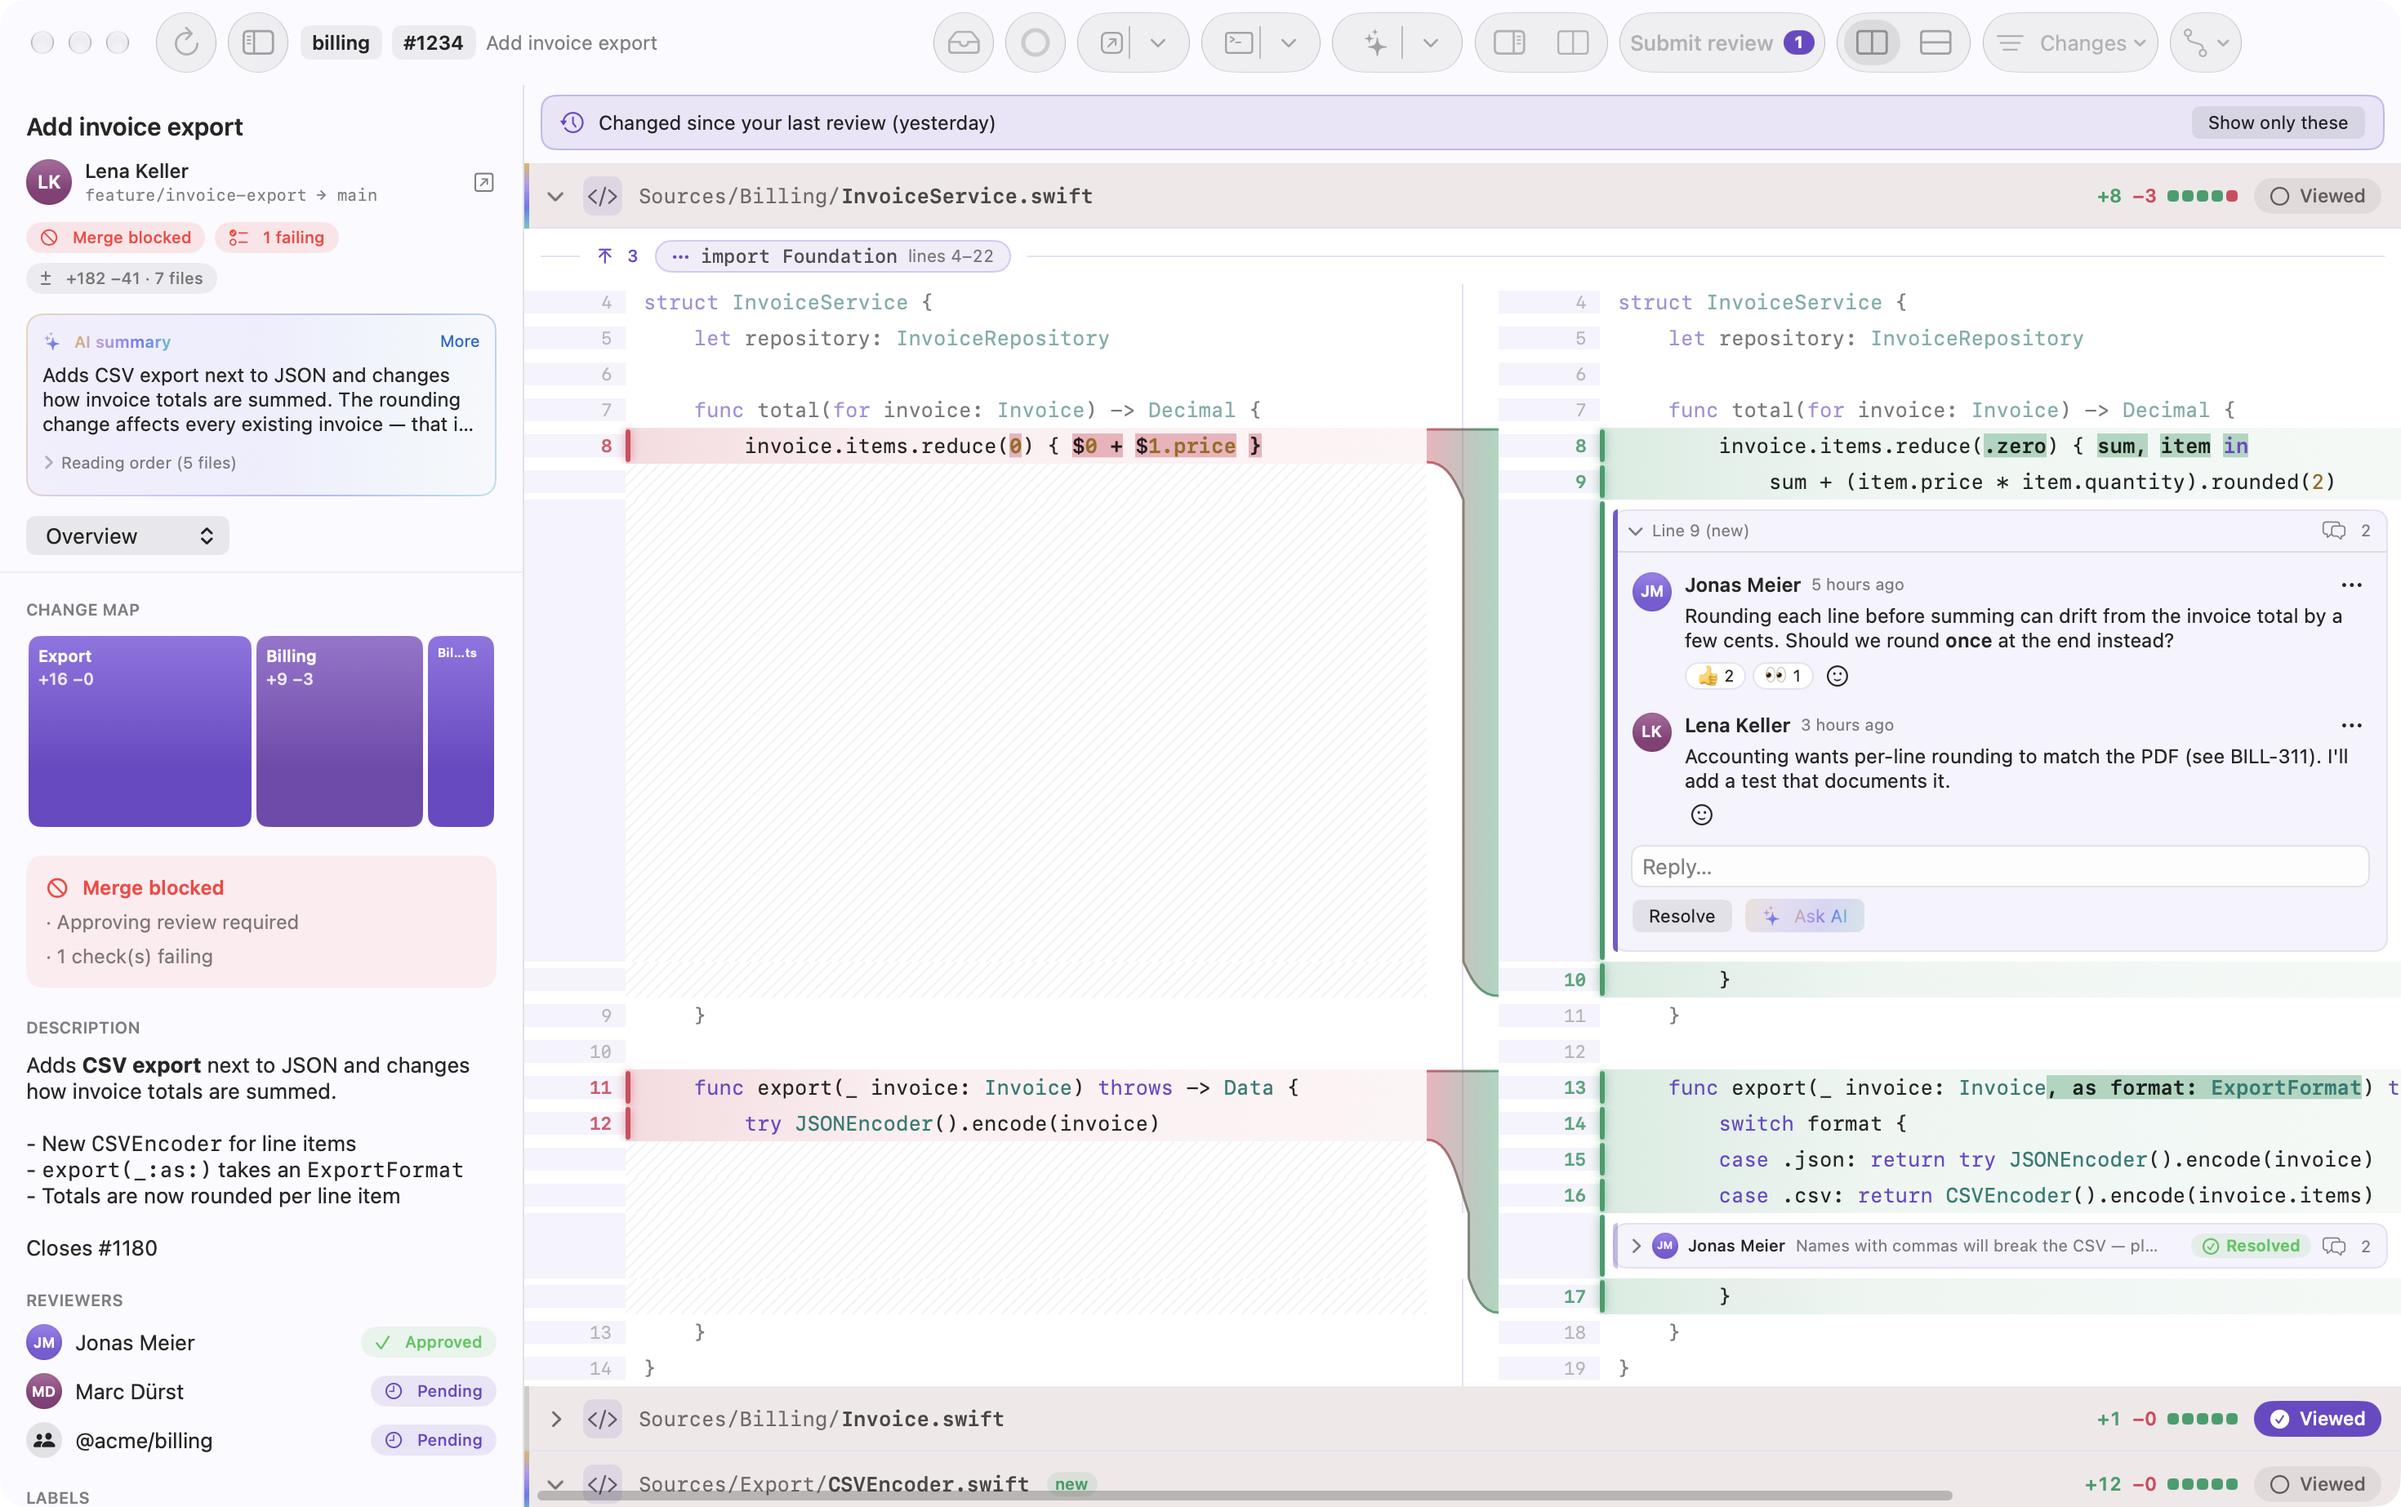
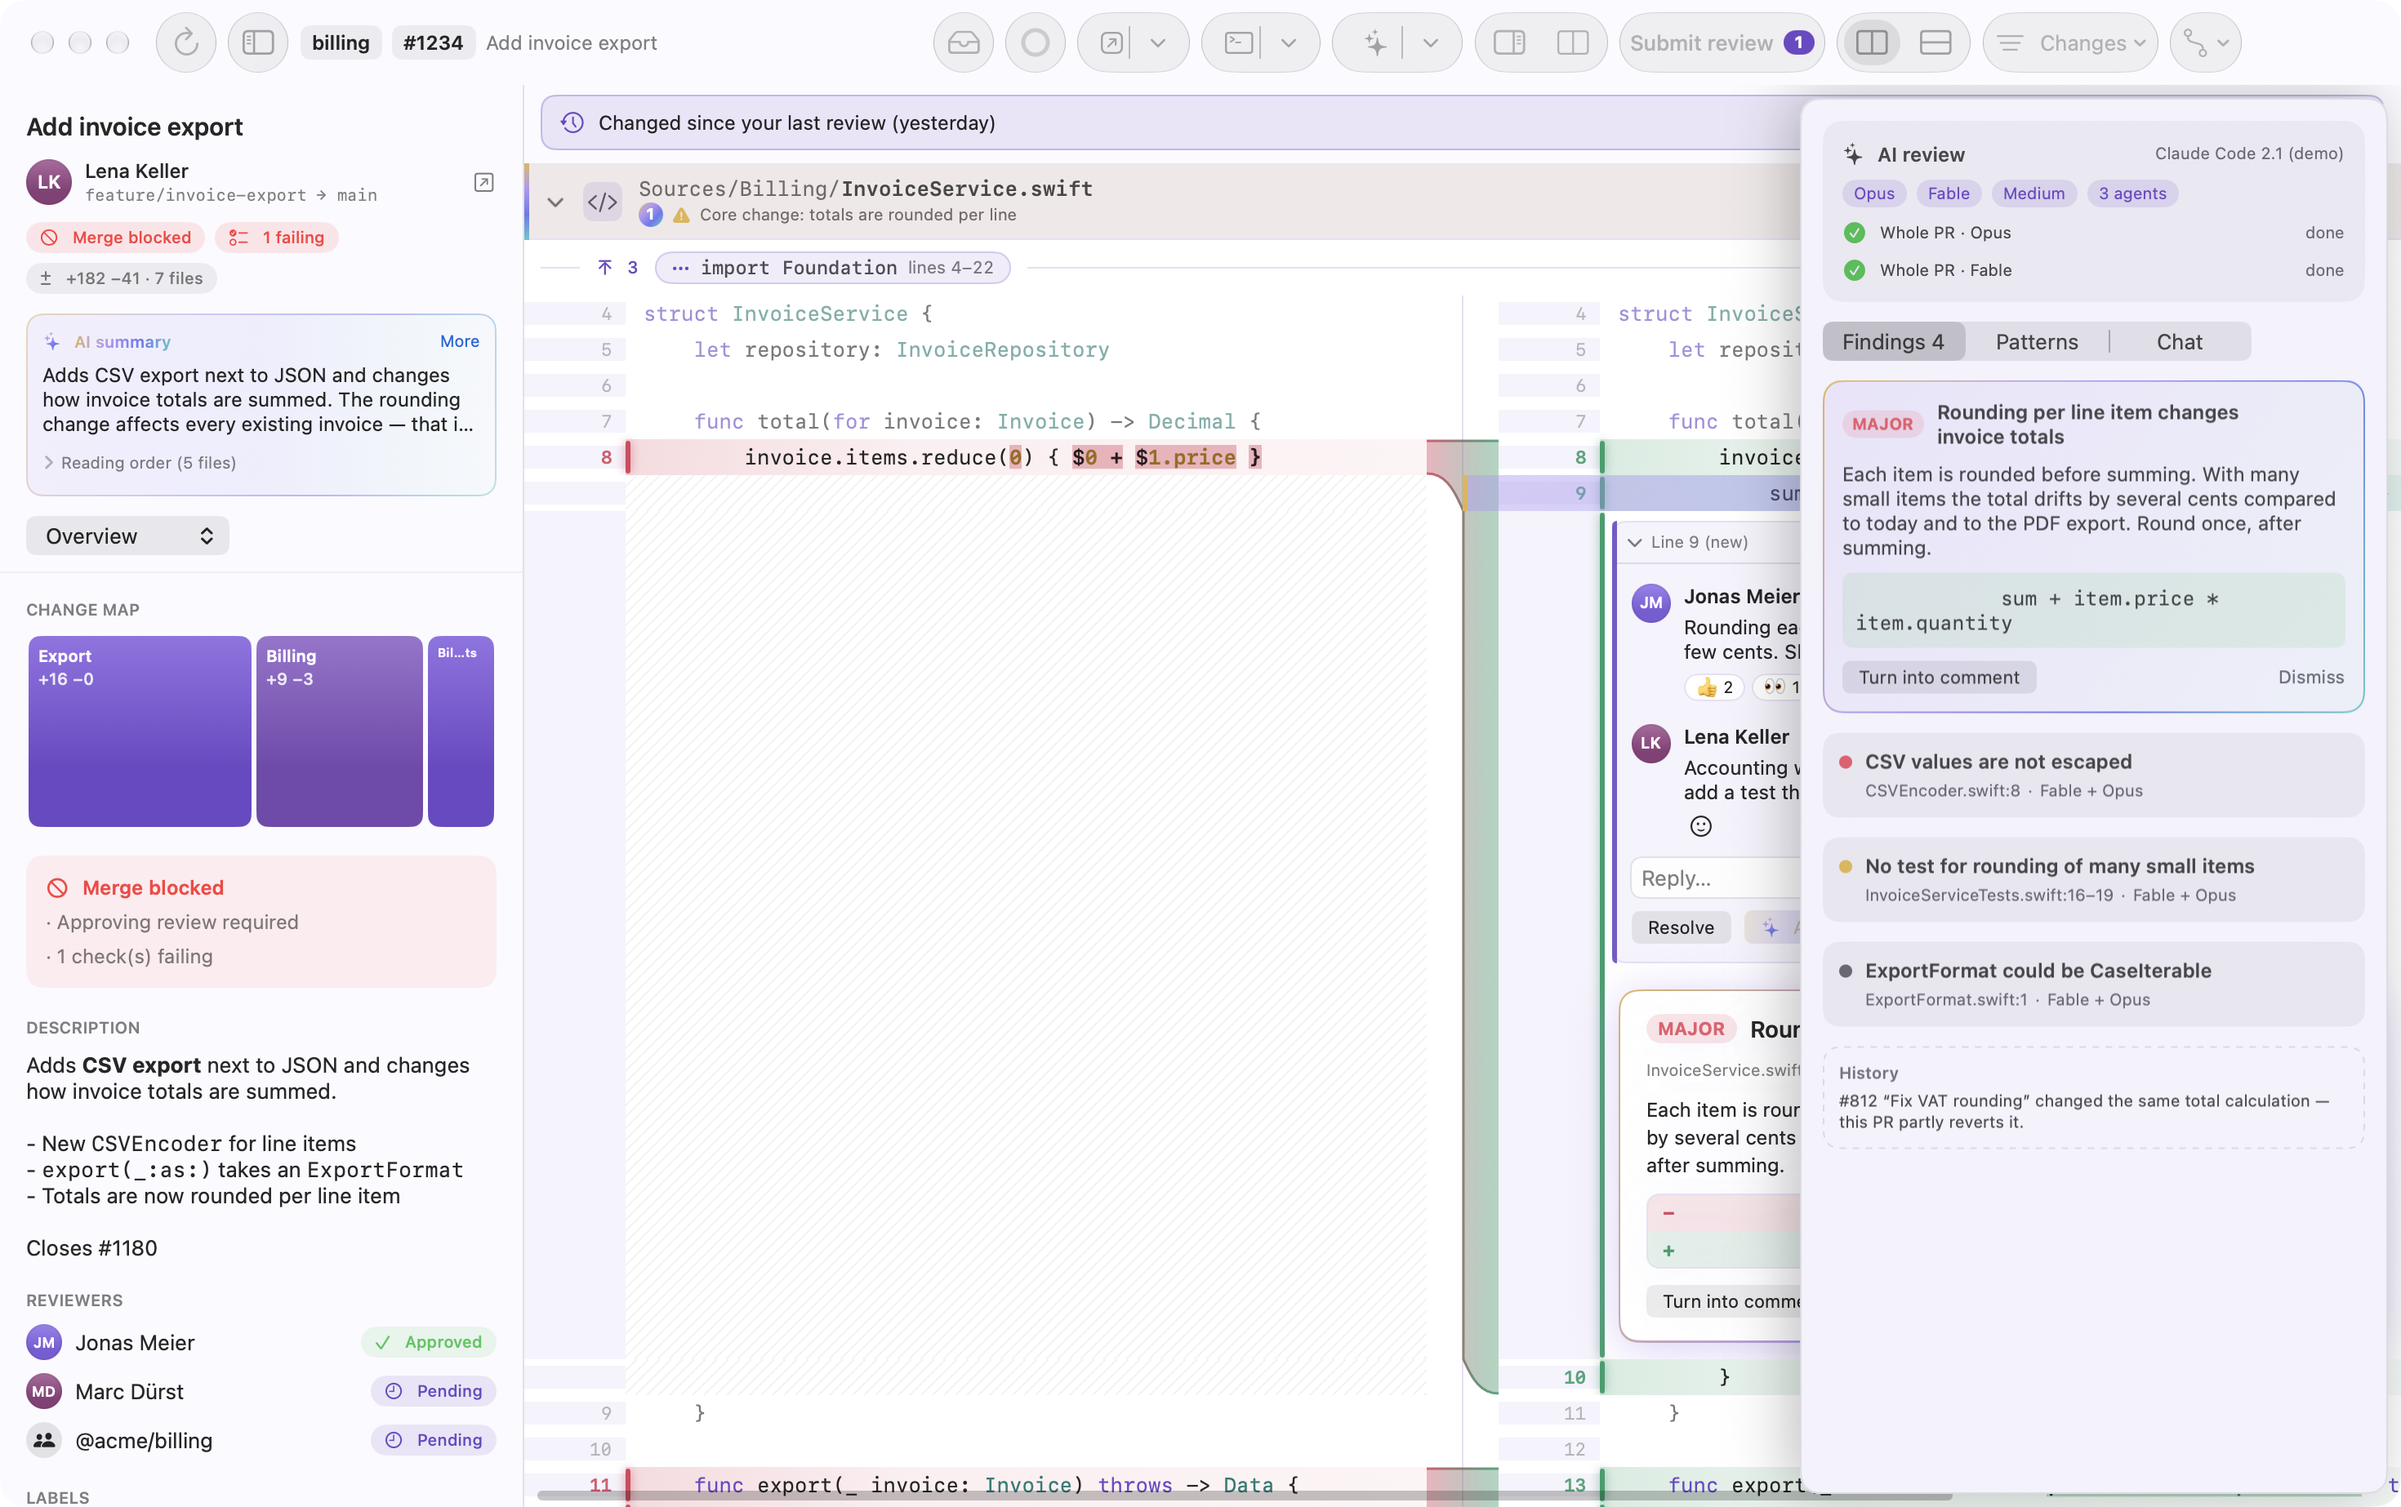
README: screenshots in light and dark mode
Each README screenshot now has a -dark.png twin, picked by the reader's
theme via <picture>. Retakes the light compact screenshot with the
floating inspector visible.

diff --git a/README.md b/README.md
@@ -11,7 +11,7 @@ Sylvra is a native macOS app for reviewing **your team's GitHub pull requests**,
 Sylvra is **not a Git client** and not a code generator. It helps you understand a change, find what matters and write clear, factual review comments. You stay the reviewer.
 
 <p align="center">
-  <img src="docs/screenshots/app-30-overview.png" alt="Sylvra: inbox with filters and repositories, pull request with AI summary and change map, diff with a review thread and an inline AI finding, AI inspector" width="100%">
+  <picture><source media="(prefers-color-scheme: dark)" srcset="docs/screenshots/app-30-overview-dark.png"><img src="docs/screenshots/app-30-overview.png" alt="Sylvra: inbox with filters and repositories, pull request with AI summary and change map, diff with a review thread and an inline AI finding, AI inspector" width="100%"></picture>
 </p>
 
 *The name is a coined word from Latin* silva */ English* sylvan *— forest, wooded.*
@@ -66,16 +66,16 @@ Sylvra is **not a Git client** and not a code generator. It helps you understand
 - **Window layouts** (`⌃⌘0`–`⌃⌘4`): *Automatic*, *Wide* (all columns), *Compact* for laptops (inbox and AI float in on demand), *Focus* (only the diff), *Two windows* for two screens.
 
 <p align="center">
-  <img src="docs/screenshots/app-26-repository-browser.png" alt="All open pull requests of a repository, grouped and filtered" width="49%">
-  <img src="docs/screenshots/app-31-commit-by-commit.png" alt="Reviewing commit 2 of 4 on its own" width="49%">
+  <picture><source media="(prefers-color-scheme: dark)" srcset="docs/screenshots/app-26-repository-browser-dark.png"><img src="docs/screenshots/app-26-repository-browser.png" alt="All open pull requests of a repository, grouped and filtered" width="49%"></picture>
+  <picture><source media="(prefers-color-scheme: dark)" srcset="docs/screenshots/app-31-commit-by-commit-dark.png"><img src="docs/screenshots/app-31-commit-by-commit.png" alt="Reviewing commit 2 of 4 on its own" width="49%"></picture>
 </p>
 <p align="center">
-  <img src="docs/screenshots/app-33-ai-chat.png" alt="AI chat with a formatted answer and clickable code references" width="49%">
-  <img src="docs/screenshots/app-34-compact.png" alt="Compact layout for laptops: pull request and a wide diff" width="49%">
+  <picture><source media="(prefers-color-scheme: dark)" srcset="docs/screenshots/app-33-ai-chat-dark.png"><img src="docs/screenshots/app-33-ai-chat.png" alt="AI chat with a formatted answer and clickable code references" width="49%"></picture>
+  <picture><source media="(prefers-color-scheme: dark)" srcset="docs/screenshots/app-34-compact-dark.png"><img src="docs/screenshots/app-34-compact.png" alt="Compact layout for laptops: pull request and a wide diff" width="49%"></picture>
 </p>
 <p align="center">
-  <img src="docs/screenshots/app-32-check-report.png" alt="What a failing check reported, with annotations" width="49%">
-  <img src="docs/screenshots/app-21-tone-check.png" alt="Comment composer with tone check" width="49%">
+  <picture><source media="(prefers-color-scheme: dark)" srcset="docs/screenshots/app-32-check-report-dark.png"><img src="docs/screenshots/app-32-check-report.png" alt="What a failing check reported, with annotations" width="49%"></picture>
+  <picture><source media="(prefers-color-scheme: dark)" srcset="docs/screenshots/app-21-tone-check-dark.png"><img src="docs/screenshots/app-21-tone-check.png" alt="Comment composer with tone check" width="49%"></picture>
 </p>
 
 ## Principles

diff --git a/specs/roadmap.md b/specs/roadmap.md
@@ -50,7 +50,7 @@ Decisions made while building without the product owner present. Revisit when co
 
 - Package tests run via `swift test`; the app scheme only builds (Xcode does not pick up local-package test targets in app schemes).
 - SwiftLint pinned to 0.65.1 in CI.
-- Screenshots: `scripts/screenshot.sh <name> [app args]` builds, launches and captures the main window into `docs/screenshots/`.
+- Screenshots: `scripts/screenshot.sh <name> [app args]` builds, launches and captures the main window into `docs/screenshots/`. README screenshots come in pairs: `<name>.png` (light, `--appearance=light`) and `<name>-dark.png` (`--appearance=dark`), shown via `<picture>` by the reader's theme.
 - Launch argument `--demo` switches all loaders to fixture data (used for screenshots; real GitHub data otherwise).
 - Inbox hides empty sections; the "Watched" and "Recently closed" sections follow with settings (M10).
 - Team requests use `review-requested:@me -user-review-requested:@me` (GitHub expands teams), so no team list is needed.
